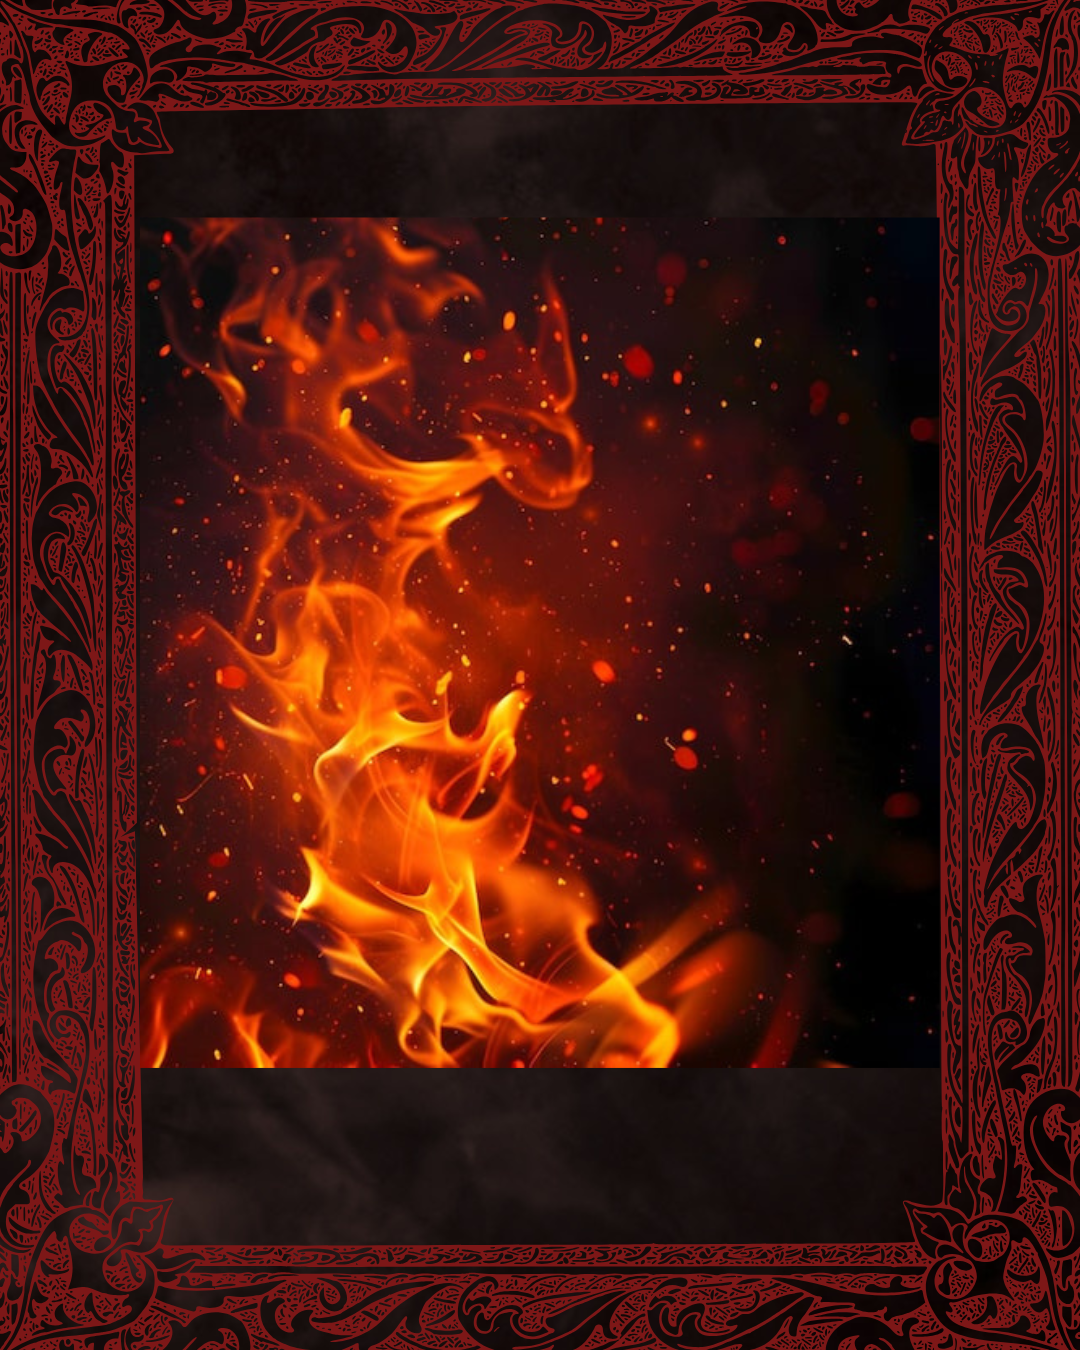
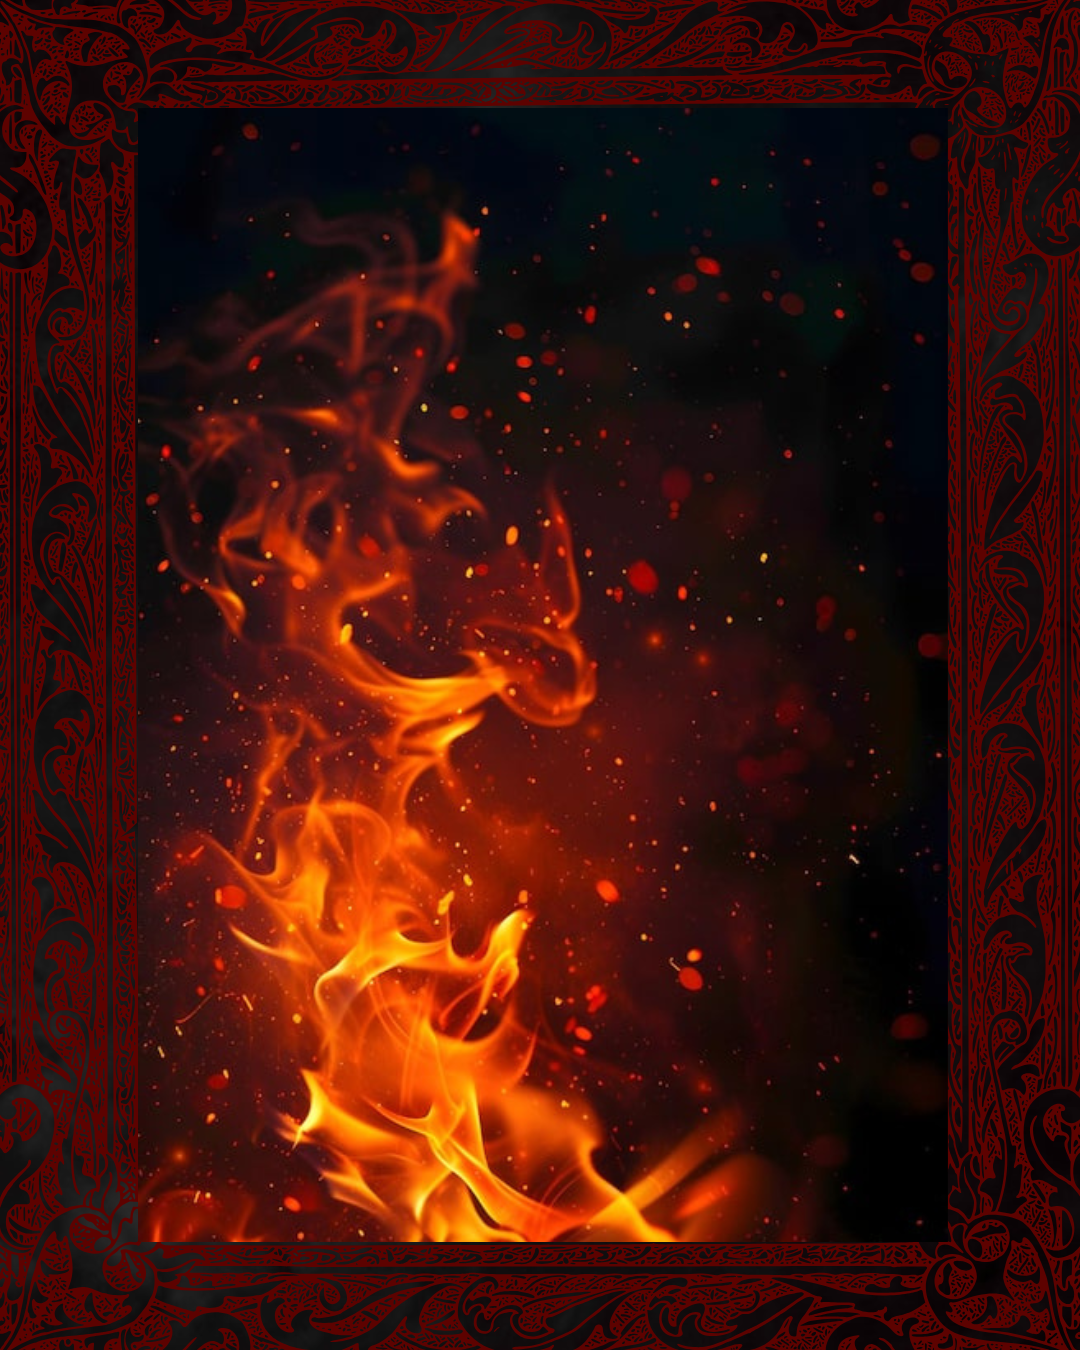
(refactor) Ajustando responsividade

diff --git a/style.css b/style.css
@@ -385,3 +385,45 @@ button:disabled {
     overflow-y: auto;
     padding-right: 10px;
 }
+
+/* --- ESTILO ESPECÍFICO DO GLOSSÁRIO (LISTA DE CARTAS) --- */
+.lista-cartas {
+    display: flex;
+    flex-direction: column; 
+    gap: 15px;
+    width: 90%;
+    align-items: center;
+}
+
+/* Redefine o formato da carta apenas dentro do glossário */
+.lista-cartas .carta {
+    flex-direction: row; 
+    width: 100%;
+    max-width: 500px;
+    height: auto; 
+    min-height: 100px;
+}
+
+.lista-cartas .carta-arte {
+    width: 100px; 
+    height: 100px;
+    border-bottom: none;
+    border-right: 2px solid #333;
+}
+
+.lista-cartas .carta-conteudo {
+    justify-content: center;
+    padding: 10px 15px;
+}
+
+/* Força a descrição a aparecer no celular dentro do glossário */
+@media (max-width: 600px) {
+    .lista-cartas .carta-descricao {
+        display: block !important;
+        font-size: 0.85em; 
+        margin: 5px 0;
+    }
+    .lista-cartas .carta-titulo {
+        font-size: 1.1em;
+    }
+}

diff --git a/app.js b/app.js
@@ -4,7 +4,7 @@ let poderGanhoAtual = 20;
 let paranoia = 0;
 let poderInimigo = 100;
 let rodadaAtual = 0;
-let poderGanhoPorSegundo = 1;
+let poderGanhoPorSegundo = 0.5;
 let cronometroInimigo;
 let cenasDestaPartida = [];
 let nivelAtualJogado = 1;
@@ -361,10 +361,10 @@ function iniciarNivel(numeroNivel) {
     mudarTela(telaNegociacao);
 
     // SISTEMA DE DIFICULDADE DINÂMICA
-    if (numeroNivel <= 5) { poderGanhoPorSegundo = 1; }
-    else if (numeroNivel <= 10) { poderGanhoPorSegundo = 2; }
-    else if (numeroNivel <= 15) { poderGanhoPorSegundo = 3; }
-    else { poderGanhoPorSegundo = 5; }
+    if (numeroNivel <= 5) { poderGanhoPorSegundo = 0.5; }
+    else if (numeroNivel <= 10) { poderGanhoPorSegundo = 1.5; }
+    else if (numeroNivel <= 15) { poderGanhoPorSegundo = 2; }
+    else { poderGanhoPorSegundo = 4; }
     iniciarCronometro();
 
     historicoChat.innerHTML += `<p class="fala-npc"><strong>Vendedor:</strong> ${cenasDestaPartida[0].falaNPC}</p>`;
@@ -459,16 +459,16 @@ const bancoDeCartas = [
     { id: 8, nome: "Arco e flecha", tipo: "ataque", descricao: "Um ataque rápido que desgasta a entidade.", valor: 20, imagem: "imagens/carta-arco.png" },
     { id: 9, nome: "Amuleto da Serenidade", tipo: "defesa", descricao: "Reduz o dano recebido por um turno.", valor: 20, imagem: "imagens/carta-amuleto.png" },
     { id: 10, nome: "Luz do Amanhecer", tipo: "ataque", descricao: "Um ataque poderoso que pode acabar com a entidade.", valor: 50, imagem: "imagens/carta-luz.png" },
-    { id: 11, nome: "Véu da Ilusão", tipo: "defesa", descricao: "Confunde a entidade, reduzindo seu próximo ataque em 50%.", valor: 0, imagem: "imagens/carta-veu.png" },
-    { id: 12, nome: "Garras do Desespero", tipo: "ataque", descricao: "Ataque desesperado, dano baseado na sanidade perdida (dano = 1.5x sanidade perdida).", valor: 0, imagem: "imagens/carta-garras.png" },
+    { id: 11, nome: "Véu da Ilusão", tipo: "defesa", descricao: "Confunde a entidade, reduzindo seu próximo ataque em 50%.", valor: 25, imagem: "imagens/carta-veu.png" },
+    { id: 12, nome: "Garras do Desespero", tipo: "ataque", descricao: "Ataque desesperado, dano baseado na sanidade perdida (dano = 1.5x sanidade perdida).", valor: 20, imagem: "imagens/carta-garras.png" },
     { id: 13, nome: "Cura da Alma", tipo: "defesa", descricao: "Restaura sanidade baseada no poder atual do inimigo.", valor: 10, imagem: "imagens/carta-cura.png" },
-    { id: 14, nome: "Explosão de Paranoia", tipo: "ataque", descricao: "Causa dano baseado na sua paranoia atual (dano = 0.3x paranoia).", valor: 0, imagem: "imagens/carta-explosao.png" },
-    { id: 15, nome: "Barreira de Sangue", tipo: "defesa", descricao: "Absorve dano igual a 20% da sua sanidade atual.", valor: 0, imagem: "imagens/carta-barreira.png" },
+    { id: 14, nome: "Explosão de Paranoia", tipo: "ataque", descricao: "Causa dano baseado na sua paranoia atual (dano = 0.3x paranoia).", valor: 24, imagem: "imagens/carta-explosao.png" },
+    { id: 15, nome: "Barreira de Sangue", tipo: "defesa", descricao: "Absorve dano igual a 20% da sua sanidade atual.", valor: 25, imagem: "imagens/carta-barreira.png" },
     { id: 16, nome: "Foice do Vazio", tipo: "ataque", descricao: "Dano massivo. Apenas para os dignos.", valor: 100, imagem: "imagens/carta-foice.png", nivelMinimo: 17 },
     { id: 17, nome: "Aura Divina", tipo: "defesa", descricao: "Uma cura divina de alto nível.", valor: 80, imagem: "imagens/carta-aura.png", nivelMinimo: 17 },
     { id: 18, nome: "Chama Eterna", tipo: "ataque", descricao: "Um ataque que queima a própria essência da entidade.", valor: 60, imagem: "imagens/carta-chama.png", nivelMinimo: 15 },
     { id: 19, nome: "Escudo de Cristal", tipo: "defesa", descricao: "Cria uma barreira que reflete parte do dano de volta à entidade.", valor: 50, imagem: "imagens/carta-escudo.png", nivelMinimo: 15 },
-    { id: 20, nome: "Espada do Caos", tipo: "ataque", descricao: "Um ataque caótico que causa dano aleatório entre 10 e 100.", valor: 0, imagem: "imagens/carta-espada.png", nivelMinimo: 10 }
+    { id: 20, nome: "Espada do Caos", tipo: "ataque", descricao: "Um ataque caótico que causa dano aleatório entre 10 e 100.", valor: 55, imagem: "imagens/carta-espada.png", nivelMinimo: 10 }
 ];
 
 function iniciarCombate() {

diff --git a/index.html b/index.html
@@ -151,7 +151,7 @@
         <h2
             style="color: #eee; border-bottom: 1px solid #555; padding-bottom: 10px; margin-bottom: 20px; width: 80%; text-align: center;">
             Compêndio de Cartas</h2>
-        <div id="glossario-cartas" class="mao-cartas" style="max-width: 900px; padding-bottom: 50px;"></div>
+        <div id="glossario-cartas" class="lista-cartas" style="max-width: 900px; padding-bottom: 50px;"></div>
     </div>
 
     <script src="app.js"></script>